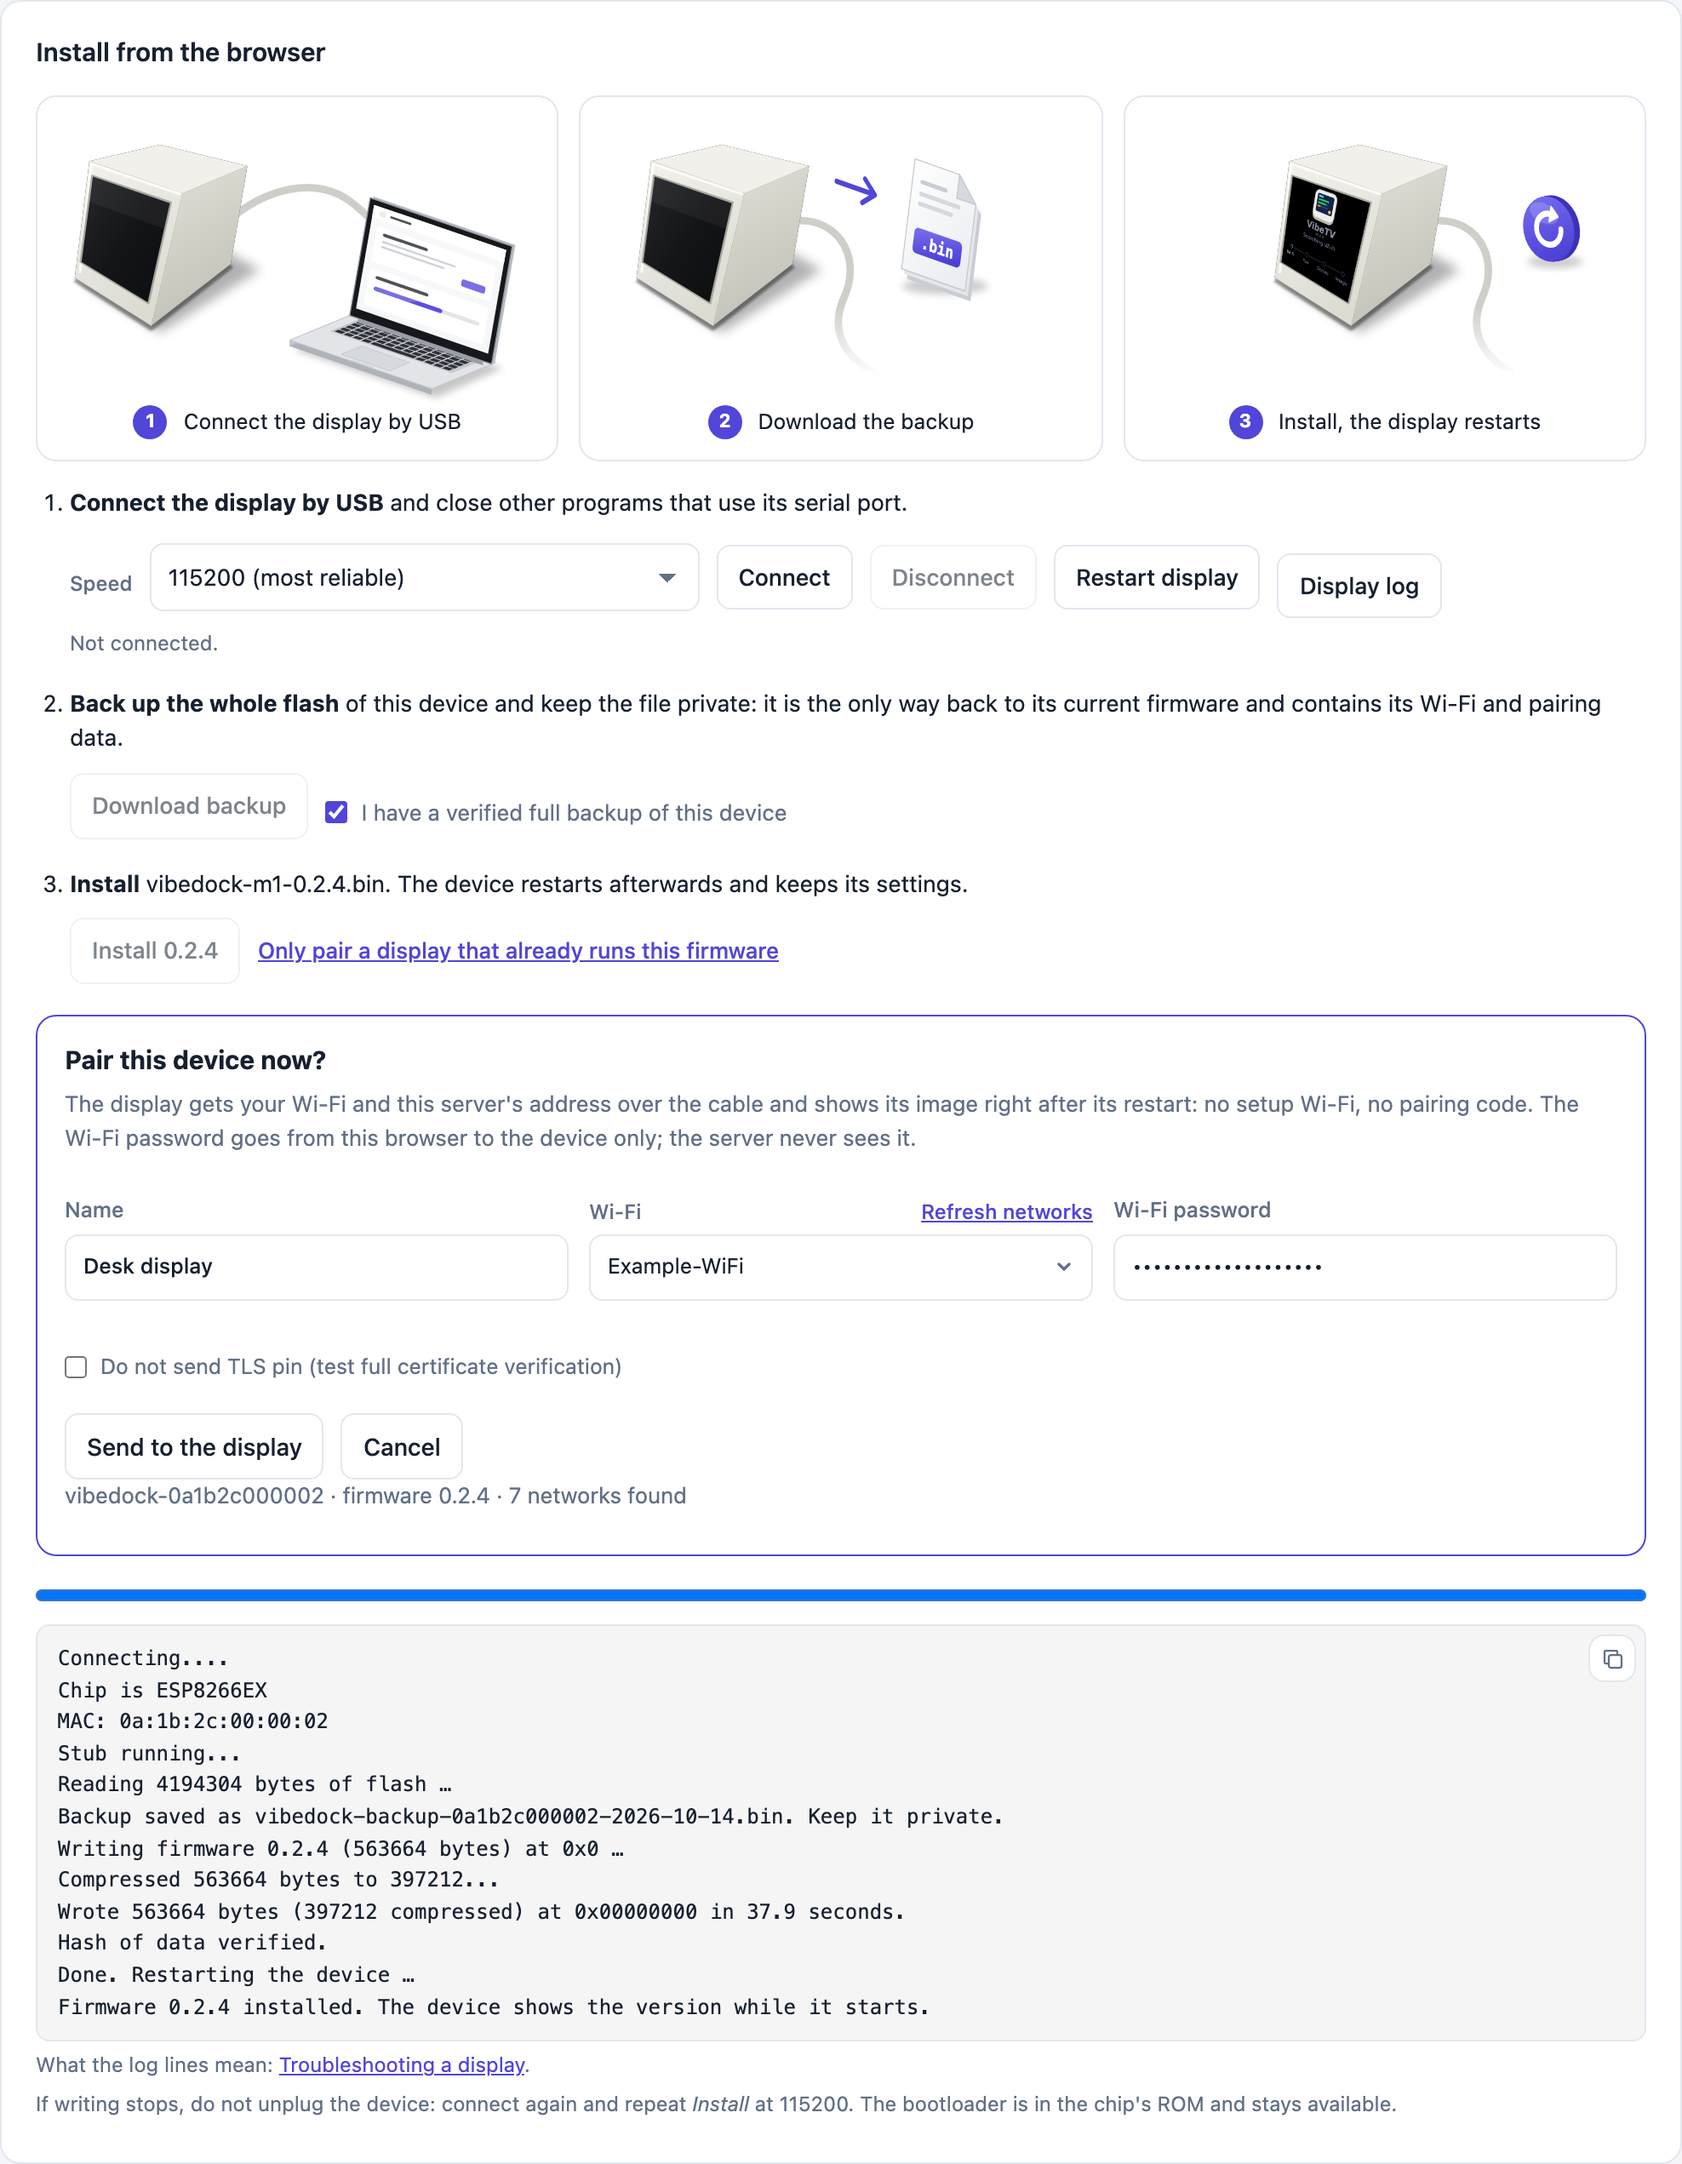
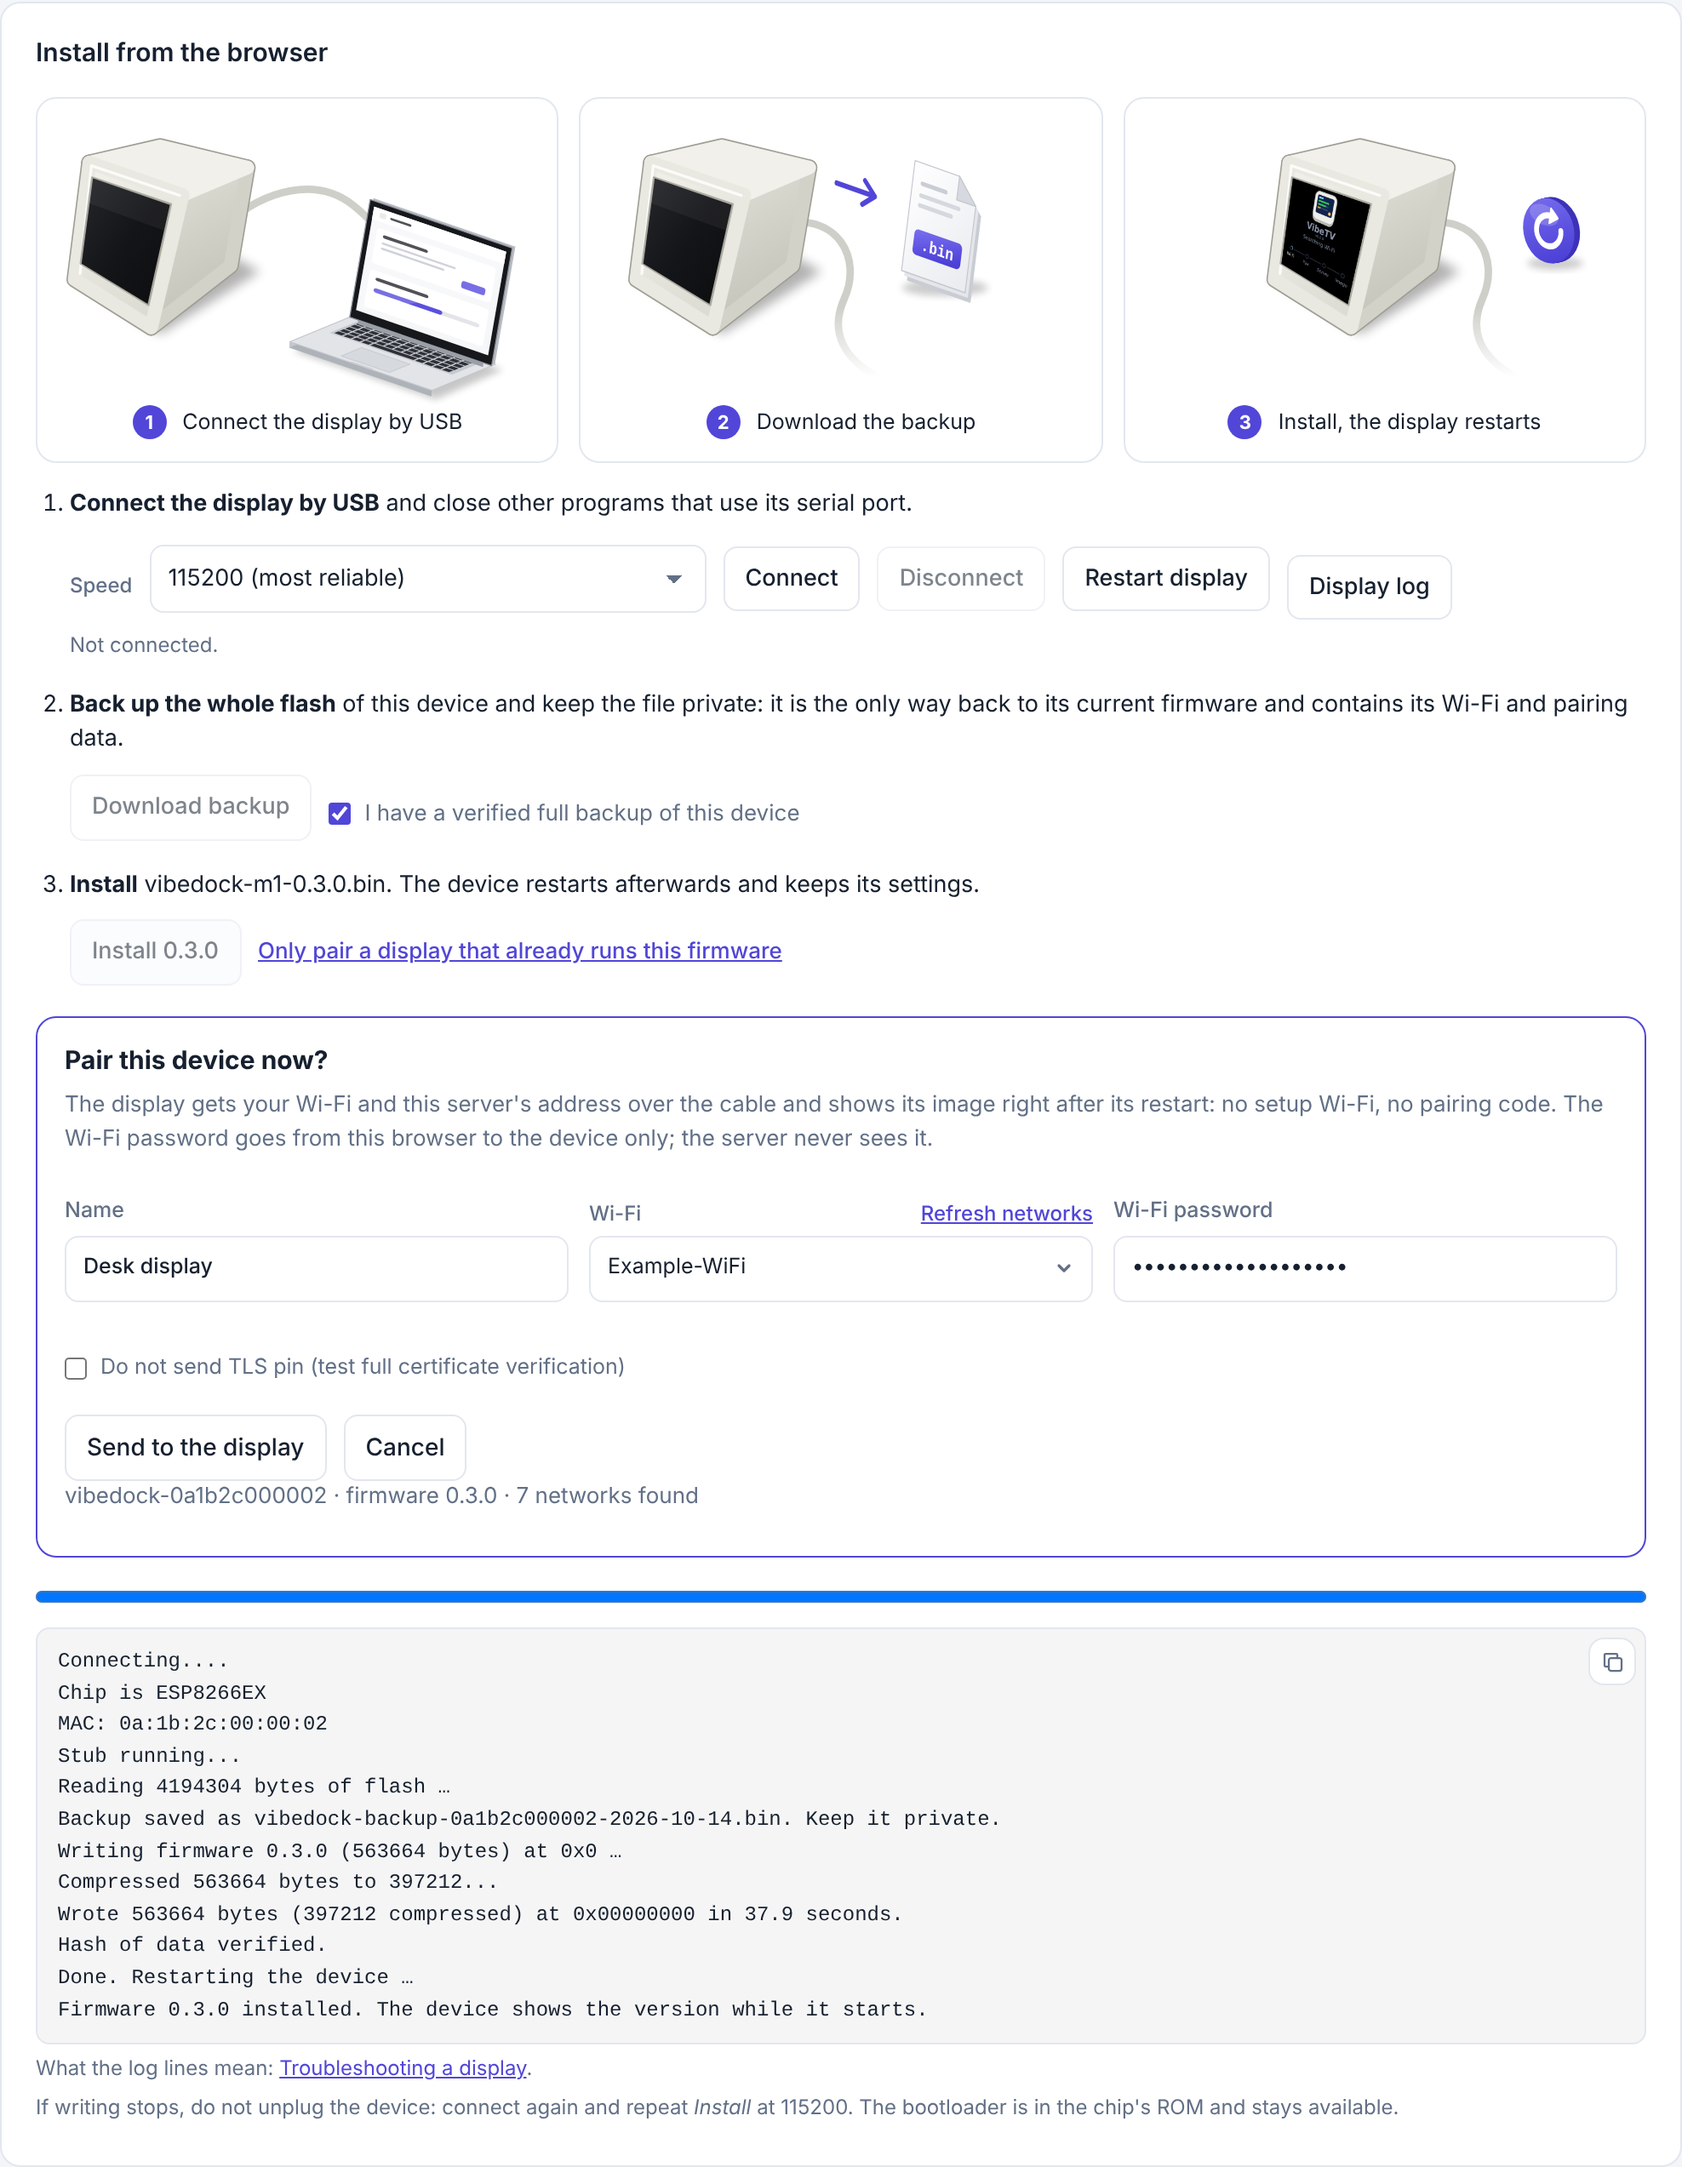
docs: current texts and screenshots for 0.3.0

diff --git a/vibedock-client/README.md b/vibedock-client/README.md
@@ -130,7 +130,7 @@ If the device still runs its original firmware, first follow [Build and test](#b
 2. **Open Wi-Fi setup.** The captive portal usually opens automatically. Otherwise, open `http://192.168.4.1` while connected to the setup network; the address is also shown on the display.
 3. **Choose your network.** Select a nearby network, enter its password and press **Save and connect**. Networks are sorted by signal strength; **Scan again** refreshes the list. You can also type the network name. The device restarts and connects.
 4. **Pair in the administration.** When the display shows **Invite in the administration**, note its IP address and six-digit pairing code. In the server administration, open **Devices → Pair device**, enter both and confirm. Reconnect your phone to your normal network if necessary.
-5. **Check the result.** The device receives its server addresses, access key and polling interval, then pulls its display image. The default interval is **30 seconds**. Its IP remains visible on the display.
+5. **Check the result.** The device receives its server addresses, access key and fallback poll interval, then pulls its display image. After that it pulls when the server says the picture can change next; the fallback interval (default **30 seconds**) applies to older servers and after failed pulls. Its IP remains visible on the display.
 
 **HTTP pairing is unencrypted.** Use it only on a trusted home network: network attackers can read the device key or replace its TLS/OTA trust keys. The pairing form shows a warning but remains available. **Devices → Firmware → Only pair** over USB is an alternative without reinstalling firmware.
 
@@ -224,7 +224,7 @@ While starting or waiting for a current image, the device shows **Wi-Fi → Pair
 | **Invite in the administration** / **Waiting for invitation** | Wi-Fi is connected. Pair using the IP and code on the display. |
 | **Connected** | The last server request succeeded. An unchanged image also counts as a successful update. |
 | **Server unreachable** | The connection failed. Check server availability and the announced addresses. The reason (TCP, DNS or the TLS error) is shown below, wrapped, with the failed address at the bottom. After a connection failure the device tries the next announced address right away (an answer that stalled after the TLS handshake first at the same address; then at the polling interval); the bottom line shows the address being tried. |
-| **Updates missing** | No successful image pull for three polling intervals; the old view is hidden to avoid showing stale data. At the default interval this is 90 seconds. |
+| **Updates missing** | No successful image pull for three fallback poll intervals, or for two intervals after the pull the server announced; the old view is hidden to avoid showing stale data. At the default interval this is at least 90 seconds. |
 | **Network not found**, **Wrong password** or **Connection failed (WPA2?)** | Check Wi-Fi credentials, signal and compatible network security. |
 | **Waiting for &lt;network&gt;** | A previously working network is unavailable. The device retries every 15 seconds and resumes automatically when it returns. |
 | **Image aborted** | An image transfer did not finish. Check connectivity and server status; the device will retry. |
@@ -238,16 +238,16 @@ The footer shows `IP: -- (no Wi-Fi)` without a connection and `Browser: 192.168.
 
 ### Change Wi-Fi while keeping pairing
 
-1. Unplug and reconnect power twice in quick succession, each interruption within about five seconds of startup.
+1. Unplug and reconnect power twice in quick succession, each interruption within about ten seconds of startup.
 2. On the second start, the display shows **Unplug now for factory reset** and **or wait: Wi-Fi setup**.
-3. **Leave the power connected** and wait about five seconds. The setup network opens.
+3. **Leave the power connected** and wait until ten seconds after startup. The setup network opens.
 4. Scan the new QR code and enter the new network settings. Pairing, device key and server addresses remain saved.
 
 ### Factory reset
 
 Use this when you want to clear the device configuration. It removes Wi-Fi settings, pairing, server addresses and local colour settings.
 
-1. Perform three quick power cycles, each within about five seconds of startup. At the second start, the display prompts **Unplug now for factory reset**.
+1. Perform three quick power cycles, each within about ten seconds of startup. At the second start, the display prompts **Unplug now for factory reset**.
 2. On the third start, the device deletes its configuration and the ESP8266's saved Wi-Fi credentials, restarts and opens setup.
 3. Configure Wi-Fi and pair again. The server replaces the old registration with the same device identifier.
 
@@ -357,7 +357,7 @@ A successful test exits with code 0 and produces no output. It checks registrati
 
 Generated firmware, `firmware/.pio/`, and `.venv/` are excluded from Git. Builds embed neither Wi-Fi credentials nor provider tokens.
 
-Images are drawn one row at a time using a 480-byte input buffer and 240 16-bit pixels, instead of storing all 115200 bytes in RAM. The format is RGB565, most significant byte first. The image fills the whole screen. The device pulls the image with its key, accepts only complete 115 200-byte images with the expected format header (the size comes from that header, so a reverse proxy may drop `Content-Length`) and aborts after 8 seconds without data (15 seconds over https).
+Images are drawn one row at a time using one input row (two bytes per pixel, at most 960 bytes) and one row of 16-bit pixels, instead of storing the whole image in RAM (115,200 bytes at 240 × 240). The format is RGB565, most significant byte first, 16 to 480 pixels per side; the image is scaled to fill the whole screen. The device pulls the image with its key and accepts only complete images with the expected format header (the size comes from that header, so a reverse proxy may drop `Content-Length`). With current servers it usually receives only the changed rows (delta images, see [CLIENT-PROTOCOL.md](../vibedock-server/CLIENT-PROTOCOL.md)), checked against a hash over all rows; any doubt makes the next pull fetch the complete image. Reads abort after 8 seconds without data (15 seconds over https).
 
 References: [PlatformIO installation](https://docs.platformio.org/en/latest/core/installation/methods/pypi.html), [PlatformIO build command](https://docs.platformio.org/en/latest/core/userguide/cmd_run.html), [IntelliJ terminal](https://www.jetbrains.com/help/idea/terminal-emulator.html), [IntelliJ external tools](https://www.jetbrains.com/help/idea/configuring-third-party-tools.html).
 
@@ -374,10 +374,10 @@ After preparing and verifying the backup, `scripts/flash.sh [board]` detects the
 | Area | Implementation |
 | --- | --- |
 | Protocol | [Version 2](../vibedock-server/CLIENT-PROTOCOL.md): the server invites once; the device then pulls images. The server can request a pull with `POST /pull`, rate-limited to once every five seconds. |
-| Image | 240×240 RGB565, most significant byte first, exactly 115,200 bytes and the expected format header. Incomplete transfers are rejected. |
-| Memory and redraw | One 480-byte input row plus 240 16-bit pixels; no full framebuffer. Row hashes avoid redrawing unchanged image rows. |
+| Image | RGB565, most significant byte first, 16–480 px per side as named in the format header (240 × 240: 115,200 bytes), scaled to the screen. Delta images (`rgb565-delta-be-WxH`) carry only changed row spans and are checked by length, payload hash and a hash over all rows. Incomplete or failed transfers are rejected; the next pull gets the complete image. |
+| Memory and redraw | One input row (at most 960 bytes) plus one row of 16-bit pixels; no full framebuffer for server images. Row hashes avoid redrawing unchanged rows and are the basis for delta images. |
 | IP footer | Current server images carry the IP reported by the device (`X-VibeDock-Footer: server`). On its own status screens, the device draws the footer itself. |
-| Polling | Default 30 seconds; server-provided values are clamped to 10–3,600 seconds. Image reads use an eight-second abort limit; the browser BMP proxy has a separate transfer limit. |
+| Polling | Every answer announces the next pull (`X-VibeDock-Next-Pull`: 2 s to 10 minutes, 2 minutes for displays the server cannot reach directly). The fallback poll interval (default 30 seconds, clamped to 10–3,600 seconds) applies to older servers and after failed pulls. Image reads use an eight-second abort limit (15 seconds over https); the browser BMP proxy has a separate transfer limit. |
 | Version | Compiled in from the Git tag by `firmware/version.py`, like the server: `0.1.0` on the tag `0.1.0` (or `v0.1.0`), `0.1.0-3-g<commit>` after it, `-dirty` with uncommitted changes. |
 | Persistence | `/standalone.json` in LittleFS stores Wi-Fi, identifier, pairing credentials, server addresses and colour settings. Treat the file and device backups as private. The setup-network password is never stored. |
 | HTTPS | Pairing supplies a trusted root and certificate fingerprint. Normal requests check the fingerprint; after certificate renewal, root/hostname/validity verification allows learning a new fingerprint. Certificate checks require time from NTP (`pool.ntp.org`). Verification fails closed. The VibeTV M1 speaks TLS 1.3 (Mbed TLS; the full check once, then the pinned certificate) and TLS 1.2 only for servers that refuse 1.3; the ESP32 boards TLS 1.2. See [TLS.md](TLS.md). |

diff --git a/docs/manual/MANUAL.md b/docs/manual/MANUAL.md
@@ -36,7 +36,7 @@ liability are in sections 7 and 8 of the Apache License 2.0 (see [License](#lice
 
 VibeDock shows how much of your AI coding plans is left (Claude, Codex, Grok, Gemini, Cursor and others) on small
 desk displays. The **server** signs in to the providers, reads the usage, renders one image per display and
-serves it; the **displays** fetch their image every 30 seconds over Wi-Fi. A display can be a VibeTV M1, another
+serves it; the **displays** fetch it over Wi-Fi when it can change, usually only the parts that changed. A display can be a VibeTV M1, another
 supported ESP32 board, or any browser or program that loads a web page or a PNG (a *web display*).
 
 This manual walks through every page of the administration and through installing the firmware on a display.
@@ -607,6 +607,8 @@ columns on a desktop, with identical example data rendered by the same code as t
 the theme to the design selected under **Design for**, and saves it right away. For an inherited device design,
 enable **Custom design** first, or change the default design instead.
 
+<img src="images/35-theme-catalog.png" width="100%" alt="Theme gallery with the switches of this installation">
+
 **The toggle beside each theme name** controls which themes this installation offers. Switching it off removes a theme from
 new selections and skips it when swiping through themes on a display or web display. Existing default and device
 designs keep the theme they already use, and their other settings can still be edited. Enable the theme again to
@@ -1100,7 +1102,7 @@ valid for 10 minutes and for one log.
 
 > Opening the USB port restarts the VibeTV M1. Read the log only after the display has finished what you want to
 > see: it shows an image or *Server unreachable*. An https connection takes the M1 a few seconds, and the first
-> attempt at an address can come only with the next poll (30 seconds by default).
+> attempt at an address can come only with the next pull.
 
 | Log line | Meaning and what to do |
 | --- | --- |

diff --git a/README.md b/README.md
@@ -141,7 +141,7 @@ Docker Hub (`mcfcologne/vibedock-server`) and on GitHub (`ghcr.io/mcfcologne/vib
 | --- | --- |
 | Administration | `http://<host>:10001/admin` (network-wide by default, plain HTTP) |
 | Public usage API and device image pull | `http://<host>:10002` |
-| Persistent data | `vibedock-server/docker.data/` (plaintext credentials; excluded from Git) |
+| Persistent data | `vibedock-server/docker.data/` (credential fields encrypted, readable with the private `.installation-id` in the same directory: keep it private; excluded from Git) |
 
 1. Open **Data sources**, add accounts as needed and use **Manage** to sign in or configure the Cursor team key.
 2. Connect the display by USB and open **Devices → Firmware** in Chrome or Edge (administration over HTTPS or on `localhost`): download a full backup, install the firmware and pair it right there with name and Wi-Fi.
